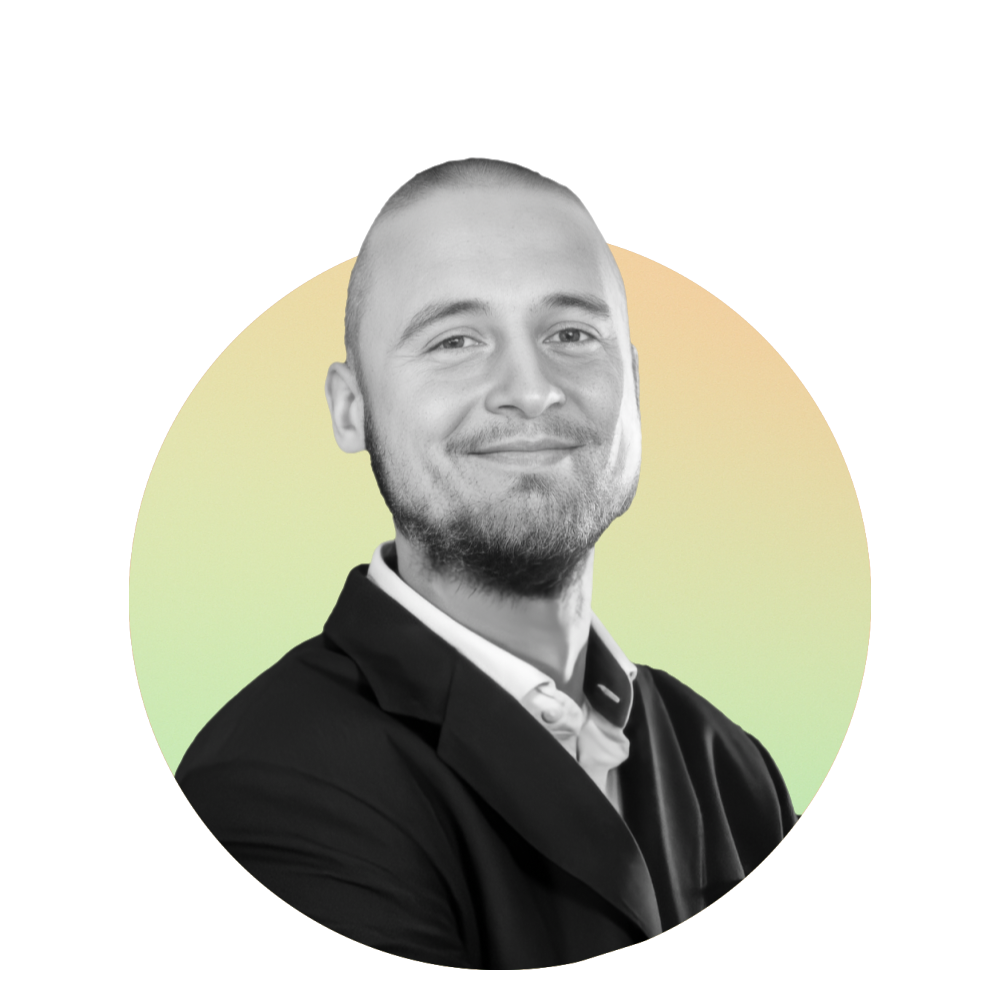
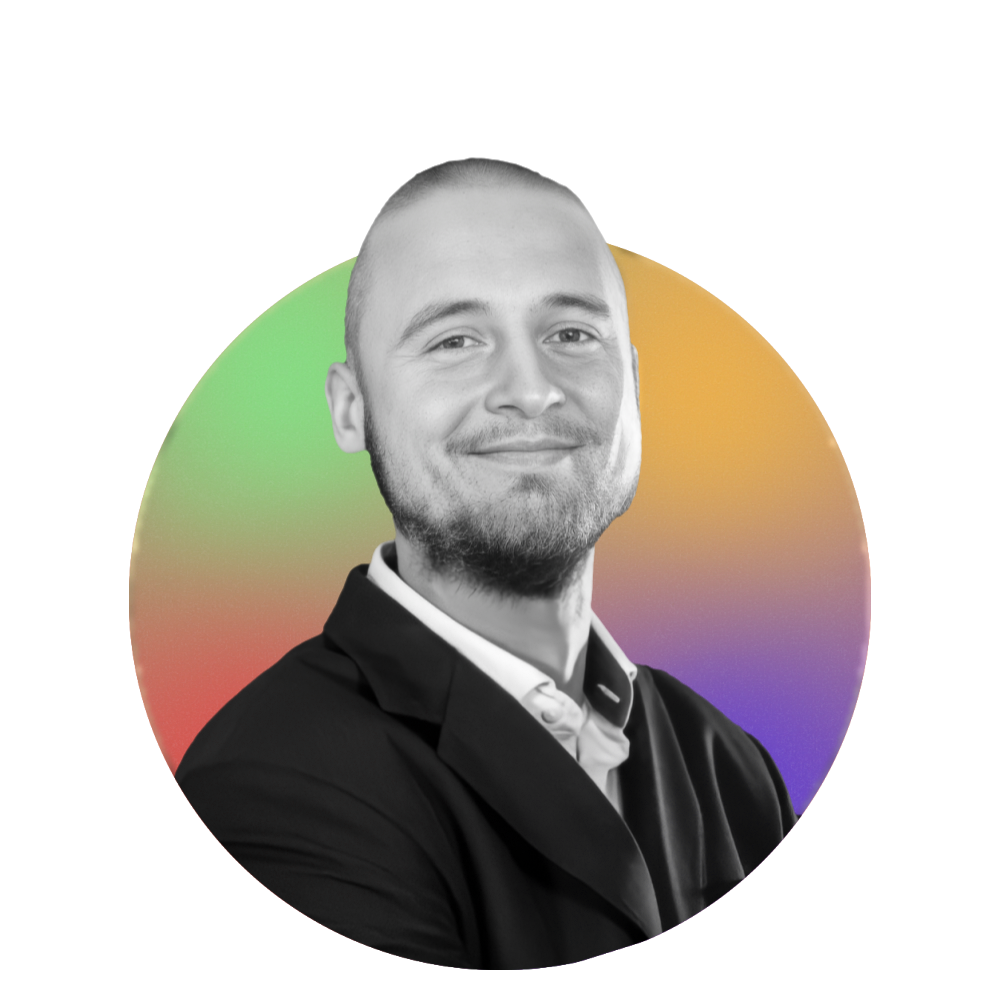
Transpose tool: LLMday London lineup to PEC with every headshot on the PEC circle
_build/recircle.py transpose copies llmday's talks.csv byte for byte and re-mixes every
headshot the lineup uses that is missing or still on the LLMday circle onto the PEC circle
(circle maps in _build/circles/, checked at ~0.5/255 against hand-made PEC versions).
First run: Miko Pawlikowski was still on the LLMday circle, Gabriele Monti was missing.

Changed region(s): [[0.589, 0.248, 0.868, 0.837], [0.124, 0.248, 0.403, 0.775]]

diff --git a/_build/recircle.py b/_build/recircle.py
@@ -1,0 +1,200 @@
+"""Transpose the LLMday London lineup to PEC London, every headshot on the PEC circle.
+
+LLMday London 2026 Q4 and PEC London 2026 are one co-located event: llmday is the source of truth.
+"Transpose the lineup from LLMday to PEC" (Marek 2026-11-11) means:
+  1. copy llmday/<event>/_db/talks.csv byte for byte to this repo's <event>/_db/talks.csv
+  2. every headshot the lineup uses must be in speakers/ ON THE PEC CIRCLE: a missing one, or one still
+     on the LLMday circle (copied over as it was), is re-mixed from llmday/speakers/ onto the PEC circle.
+     A headshot already on the PEC circle is never touched (they were hand-checked).
+
+The swap: the person is greyscale, so each pixel L = m*grey + b*C_llmday (least squares per pixel) and
+the output is L + b*(C_pec - C_llmday): person, framing and hair edges unchanged, only the circle moves.
+The two circle colour maps live in _build/circles/ (estimated from 75 LLMday and 83 PEC headshots on
+2026-11-11; `fitmaps` rebuilds them). Checked against hand-made PEC versions: mean diff ~0.5/255.
+
+usage (repo root, sister llmday checkout next to this one):
+  python _build/recircle.py transpose [event]     # default event: 2026-london-q4; --dry-run to only report
+  python _build/recircle.py audit [event]         # which headshots are on which circle
+  python _build/recircle.py convert <src.png> <dst.png>
+  python _build/recircle.py check                 # compare against hand-made PEC versions
+  python _build/recircle.py fitmaps               # rebuild _build/circles/*.png
+"""
+import csv, glob, os, shutil, sys
+import numpy as np
+from PIL import Image
+
+ROOT = os.path.dirname(os.path.dirname(os.path.abspath(__file__)))
+LLMDAY = os.path.join(os.path.dirname(ROOT), "llmday")
+CIRCLES = os.path.join(ROOT, "_build", "circles")
+N = 1000   # headshots are 1000x1000 RGBA
+DS = 250   # map estimation grid
+
+
+def load(p, size=N):
+    im = Image.open(p).convert("RGBA")
+    if im.size != (size, size):
+        im = im.resize((size, size), Image.LANCZOS)
+    return np.asarray(im).astype(np.float64)
+
+
+def maps():
+    cl = np.asarray(Image.open(os.path.join(CIRCLES, "llmday.png")).convert("RGB")).astype(np.float64)
+    cp = np.asarray(Image.open(os.path.join(CIRCLES, "pec.png")).convert("RGB")).astype(np.float64)
+    return cl, cp
+
+
+# ---------------------------------------------------------------- circle maps
+
+def _estimate(files):
+    stack, chs = [], []
+    for f in files:
+        a = load(f, DS)
+        rgb, al = a[..., :3], a[..., 3]
+        chroma = rgb.max(-1) - rgb.min(-1)
+        chroma[al < 250] = -1
+        stack.append(rgb); chs.append(chroma)
+    stack, chs = np.stack(stack), np.stack(chs)
+    top = chs.max(0)
+    ok = (chs >= 0.75 * top[None]) & (chs > 8)   # near the most colourful pixel seen there = bare circle
+    with np.errstate(all="ignore"):
+        best = np.nan_to_num(np.nanmedian(np.where(ok[..., None], stack, np.nan), 0))
+    return best, np.where(ok.sum(0) >= 3, top, 0.0)
+
+
+def _fit(best, bestc, deg=5):
+    from PIL import ImageFilter
+    ys, xs = np.mgrid[0:DS, 0:DS]
+    u, v = (xs + 0.5) / DS * 2 - 1, (ys + 0.5) / DS * 2 - 1
+    thr = np.percentile(bestc[bestc > 0], 30)
+    m = (bestc >= thr) & (u**2 + v**2 < 0.98)
+    terms = [(i, j) for i in range(deg + 1) for j in range(deg + 1 - i)]
+    coef = np.linalg.lstsq(np.stack([u[m]**i * v[m]**j for i, j in terms], 1), best[m], rcond=None)[0]
+    ys, xs = np.mgrid[0:N, 0:N]
+    u, v = (xs + 0.5) / N * 2 - 1, (ys + 0.5) / N * 2 - 1
+    full = np.stack([u**i * v**j for i, j in terms], -1) @ coef           # smooth fill where never visible
+    meas = Image.fromarray(np.clip(best, 0, 255).astype(np.uint8)).resize((N, N), Image.BILINEAR)
+    w = Image.fromarray(((bestc >= thr) * 255).astype(np.uint8)).resize((N, N), Image.BILINEAR)
+    w = np.asarray(w.filter(ImageFilter.GaussianBlur(6))).astype(np.float64)[..., None] / 255
+    meas = np.asarray(meas.filter(ImageFilter.GaussianBlur(3))).astype(np.float64)
+    return np.clip(w * meas + (1 - w) * full, 0, 255)
+
+
+def fitmaps():
+    names = set()
+    for c in glob.glob(os.path.join(LLMDAY, "2026-*", "_db", "talks.csv")):
+        names |= {r["photo"] for r in csv.DictReader(open(c, encoding="utf-8")) if r.get("photo")}
+    llm = [f for f in sorted(glob.glob(os.path.join(LLMDAY, "speakers", "*.png"))) if os.path.basename(f) in names]
+    pec = sorted(glob.glob(os.path.join(ROOT, "speakers", "*.png")))
+    os.makedirs(CIRCLES, exist_ok=True)
+    for tag, files in (("llmday", llm), ("pec", pec)):
+        Image.fromarray(_fit(*_estimate(files)).round().astype(np.uint8)).save(os.path.join(CIRCLES, tag + ".png"))
+        print(tag, len(files), "headshots ->", os.path.join("_build", "circles", tag + ".png"))
+
+
+# ---------------------------------------------------------------- swap + audit
+
+def convert(src, dst, cm=None):
+    cl, cp = cm or maps()
+    a = load(src)
+    L, al = a[..., :3], a[..., 3:]
+    s12, s22 = cl.sum(-1), (cl * cl).sum(-1)
+    r1, r2 = L.sum(-1), (L * cl).sum(-1)
+    det = 3.0 * s22 - s12 * s12
+    det = np.where(np.abs(det) < 1e-6, 1e-6, det)
+    b = np.clip((3.0 * r2 - s12 * r1) / det, 0, 1)[..., None]
+    out = np.clip(L + b * (cp - cl), 0, 255)
+    Image.fromarray(np.concatenate([out, al], -1).round().astype(np.uint8), "RGBA").save(dst, optimize=True)
+
+
+def which_circle(path, cm=None):
+    """'pec', 'llmday' or '?' - counts bare-circle pixels matching each map where the two maps differ."""
+    cl, cp = cm or maps()
+    a = load(path)
+    L, al = a[..., :3], a[..., 3]
+    differ = (np.abs(cl - cp).max(-1) > 40) & (al > 250)
+    dl, dp = np.abs(L - cl).max(-1), np.abs(L - cp).max(-1)
+    nl, np_ = int(((dl < 14) & differ).sum()), int(((dp < 14) & differ).sum())
+    if max(nl, np_) < 2000:
+        return "?", nl, np_
+    return ("pec" if np_ > nl else "llmday"), nl, np_
+
+
+def lineup_photos(csv_path):
+    seen = []
+    for r in csv.DictReader(open(csv_path, encoding="utf-8")):
+        p = (r.get("photo") or "").strip()
+        if p and p not in seen:
+            seen.append(p)
+    return seen
+
+
+def audit(event):
+    cm = maps()
+    rows = []
+    for p in lineup_photos(os.path.join(ROOT, event, "_db", "talks.csv")):
+        f = os.path.join(ROOT, "speakers", p)
+        rows.append((p, which_circle(f, cm) if os.path.exists(f) else ("missing", 0, 0)))
+    for p, (c, nl, np_) in rows:
+        print("%-8s %-45s (llmday px %d, pec px %d)" % (c, p, nl, np_))
+    return rows
+
+
+def transpose(event, dry=False):
+    src_csv = os.path.join(LLMDAY, event, "_db", "talks.csv")
+    dst_csv = os.path.join(ROOT, event, "_db", "talks.csv")
+    same = open(src_csv, "rb").read() == open(dst_csv, "rb").read()
+    print("talks.csv:", "already identical" if same else "copied from llmday" + (" (dry run)" if dry else ""))
+    if not same and not dry:
+        shutil.copyfile(src_csv, dst_csv)
+    cm = maps()
+    done, kept, problems = [], 0, []
+    for p in lineup_photos(src_csv):
+        dst = os.path.join(ROOT, "speakers", p)
+        src = os.path.join(LLMDAY, "speakers", p)
+        state = which_circle(dst, cm)[0] if os.path.exists(dst) else "missing"
+        if state == "pec":
+            kept += 1
+            continue
+        if not os.path.exists(src):
+            problems.append("%s: %s in PEC and not in llmday/speakers - needs a photo" % (p, state))
+            continue
+        src_state = which_circle(src, cm)[0]
+        if src_state != "llmday":
+            problems.append("%s: llmday copy is on the '%s' circle, not swapped - check it by eye" % (p, src_state))
+            continue
+        if not dry:
+            convert(src, dst, cm)
+            after = which_circle(dst, cm)[0]
+            if after != "pec":
+                problems.append("%s: still reads as '%s' after the swap - check it by eye" % (p, after))
+        done.append("%s (%s)" % (p, state))
+    print("headshots kept (already on the PEC circle): %d" % kept)
+    print("headshots put on the PEC circle%s: %d" % (" (dry run)" if dry else "", len(done)))
+    for d in done:
+        print("  +", d)
+    for pr in problems:
+        print("  !", pr)
+    return done, problems
+
+
+def check():
+    cm = maps()
+    tmp = os.path.join(ROOT, ".cache", "recircle-check.png")
+    os.makedirs(os.path.dirname(tmp), exist_ok=True)
+    for n in ("Harrison Kirby", "Paulius Rauba", "Veronika Ulanova"):
+        convert(os.path.join(LLMDAY, "speakers", n + ".png"), tmp, cm)
+        a, b = load(tmp), load(os.path.join(ROOT, "speakers", n + ".png"))
+        d = np.abs(a[..., :3] - b[..., :3])[a[..., 3] > 0]
+        print("%s: mean abs diff %.2f, p99 %.1f" % (n, d.mean(), np.percentile(d, 99)))
+
+
+if __name__ == "__main__":
+    args = [a for a in sys.argv[1:] if not a.startswith("--")]
+    cmd = args[0] if args else "audit"
+    event = args[1] if len(args) > 1 else "2026-london-q4"
+    if cmd == "transpose": transpose(event, dry="--dry-run" in sys.argv)
+    elif cmd == "audit": audit(event)
+    elif cmd == "convert": convert(args[1], args[2])
+    elif cmd == "check": check()
+    elif cmd == "fitmaps": fitmaps()
+    else: sys.exit(__doc__)

diff --git a/CLAUDE.md b/CLAUDE.md
@@ -76,6 +76,9 @@ The "I need more stats" expandable section on the sponsorship page has two kinds
 ## Sister repos
 Same structure: `llmday` (the reference copy), `sreday`, `platformday`. Ports go llmday -> PEC. Since 2026-10-06 `_event_template/_build/generate.py` is byte-identical in all four repos (PEC-specific values come from metadata: `brand_key: pec`, `brand_domain`); keep it that way - port llmday's file verbatim. Deliberate PEC differences live in the templates (`_base.html` design, single-brand `_lead_form.html`, own attendee data in `sponsorship.html`) and in `home/` (no ambassadors/host pages, PEC-only `_STATUS_BRANDS`, own GitHub org). Marek: **PEC is no sister brand** on the sites - no cross-brand buttons, no PEC chip on the other brands' forms.
 
+## London lineup comes from LLMday ("transpose the lineup from LLMday to PEC")
+PEC London 2026 = LLMday London 2026 Q4 (one co-located event, llmday is the source of truth). `python _build/recircle.py transpose [event]` copies llmday's `talks.csv` byte for byte and puts every headshot the lineup uses on the **PEC circle**: missing ones and any still on the LLMday circle are re-mixed from `llmday/speakers/`, PEC-circle ones are never touched. Never copy an llmday headshot over as it is. `audit` lists which circle each headshot is on. Circle colour maps: `_build/circles/`.
+
 ## Forms (lead form + hidden organizer pages)
 The lead form and the hidden `/<event>/{onboarding,fasttrack,invitation,onboardsponsor}/` pages share the Apps Script deployments of llmday (`llmday/_build/*.gs`, brand key `pec` from `brand_key` in the event `metadata.yml`). PEC has no mail alias: emails go out from `mark@llmday.com`, the fast-track `anna@` route resolves to `anna@llmday.com`, the speaker discount code is `PEC20`. The PEC lead form has no "which conference" picker. See README for details.
 
